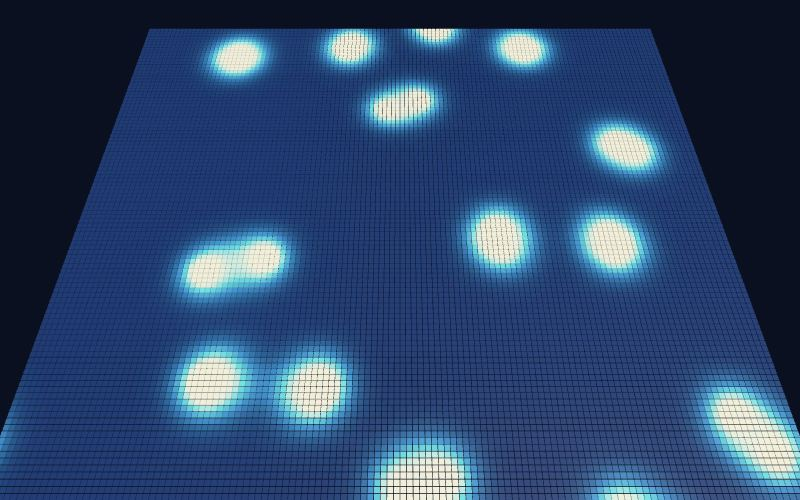
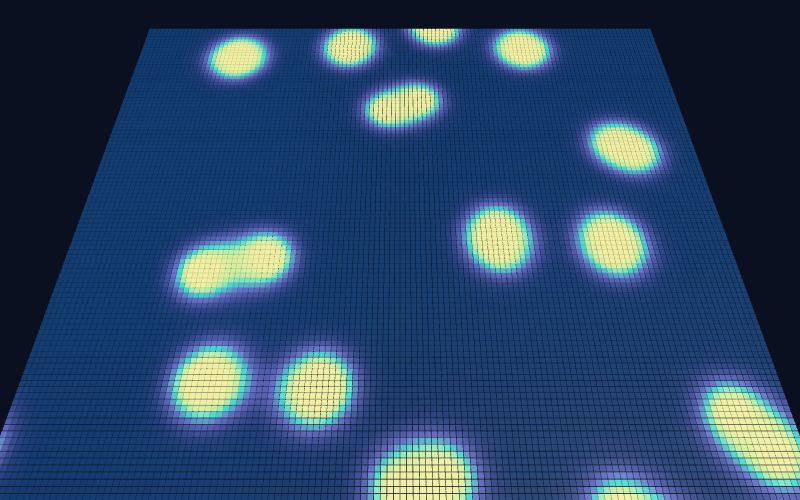
Hypercycle as five continuous chemicals (spiral waves); Gray-Scott preset buttons, palettes and spread knobs; controls can set several fields

diff --git a/examples/hypercycle/hypercycle.js b/examples/hypercycle/hypercycle.js
@@ -1,74 +1,60 @@
-// A hypercycle: molecules that each help the next one copy itself, in a ring (1 helps 2, 2 helps 3, ... 5 helps 1).
+// A hypercycle: chemicals that each help the next one copy itself, in a ring (1 helps 2, 2 helps 3, ... 5 helps 1).
 //
-// On their own, rivals crowd each other out. In a ring, every member needs the one before it, so none can win
-// without the rest: they all survive, and on a surface they chase each other around in spiral waves.
+// On their own, rivals crowd each other out. In a ring, every one needs the one before it, so none can win
+// without the rest: they all survive, and across a surface they chase each other around in spiral waves.
 // This is Eigen and Schuster's idea of how life's first molecules could have cooperated.
 //
-// Each cell is empty (0), one of the five members (1 to 5), or a parasite (6).
-//   - A member dies now and then.
-//   - An empty cell can be filled by a copy of a neighbor. A member copies faster when a neighbor of
-//     the species before it in the ring is nearby to help.
-//   - A parasite gets help from member 1 but helps nobody back. It breaks the ring... or does it?
-//     Raise the `parasites` slider and see whether the spirals hold up.
-const MEMBERS = 5
-const PARASITE = MEMBERS + 1
-const COLORS = ['#10151f', '#ff5a5f', '#ffb347', '#f4e25a', '#4fd1a5', '#5aa9ff', '#f2f2f2']
+// Every cell holds a concentration of each of the five chemicals, adding up to 1. Each step:
+//   - chemical i grows at a rate of  k + c * (how much of chemical i-1 is here)   [`base` and `help`]
+//   - what grew is taken from everyone in proportion, so the total stays 1        [the "dilution"]
+//   - every chemical spreads into its neighbors                                  [`spread`]
+// The picture mixes five colors by those concentrations; `contrast` sharpens it so the waves read clearly.
+const N = 5
+const NAMES = ['a', 'b', 'c', 'd', 'e']
+const HUES = ['#ff3b5c', '#ffb02e', '#5cf27a', '#27d6ff', '#a35cff'].map((h) => [1, 3, 5].map((i) => parseInt(h.slice(i, i + 2), 16) / 255))
 
 export default {
-  // random species in a share of the cells (`fill`), and a few parasites
+  // every cell starts as a random mixture
   initAll({ count }, p, ctx) {
-    const species = new Float32Array(count)
+    const x = NAMES.map(() => new Float32Array(count))
     for (let i = 0; i < count; i++) {
-      if (ctx.random() < p.fill) species[i] = 1 + Math.floor(ctx.random() * MEMBERS)
-      if (p.parasites > 0 && ctx.random() < 0.004 * p.parasites) species[i] = PARASITE
+      let sum = 0
+      for (let s = 0; s < N; s++) sum += x[s][i] = ctx.random() ** 2 + 0.001
+      for (let s = 0; s < N; s++) x[s][i] /= sum
     }
-    return { species }
+    return Object.fromEntries(NAMES.map((n, s) => [n, x[s]]))
   },
 
-  // empty cells are not drawn; the rest take their species' color
-  display({ self }, p, ctx) {
-    return { visible: self.species > 0, color: COLORS[self.species] }
+  // blend the five colors by concentration, sharpened by `contrast` so the strongest one dominates
+  displayAll(f, p) {
+    const n = f.a.length, d = NAMES.map((k) => f[k].data)
+    const out = { r: new Float32Array(n), g: new Float32Array(n), b: new Float32Array(n) }
+    for (let i = 0; i < n; i++) {
+      let sum = 0
+      const w = d.map((c) => { const v = Math.pow(c[i], p.contrast); sum += v; return v })
+      for (let s = 0; s < N; s++) {
+        const k = sum > 0 ? w[s] / sum : 0
+        out.r[i] += k * HUES[s][0]; out.g[i] += k * HUES[s][1]; out.b[i] += k * HUES[s][2]
+      }
+    }
+    return { color: out }
   },
 
-  act({ self, neighbors }, p, ctx) {
-    if (self.species !== 0) {
-      return ctx.random() < p.death ? { species: 0 } : {} // alive cells just die at random
+  actAll(f, p) {
+    let x = NAMES.map((k) => f[k])
+    for (let step = 0; step < p.speed; step++) {
+      // how fast each one copies itself, helped by the one before it in the ring
+      const rate = x.map((c, s) => x[(s + N - 1) % N].mul(p.help).add(p.base))
+      const growth = x.map((c, s) => c.mul(rate[s]))
+      const total = growth.reduce((a, g) => a.add(g))
+      x = x.map((c, s) => {
+        const reacted = c.add(growth[s].sub(c.mul(total)).mul(p.dt))
+        return reacted.add(reacted.neighborAverage().sub(reacted).mul(p.spread)).clamp(0, 1)
+      })
     }
-
-    // an empty cell: count the species around it
-    const around = new Array(PARASITE + 1).fill(0)
-    for (const s of neighbors.species) around[s]++
-
-    // how strongly each species wants to fill this cell: more neighbors of it, and more help from the one before it
-    const want = new Array(PARASITE + 1).fill(0)
-    let total = 0
-    for (let s = 1; s <= MEMBERS; s++) {
-      const before = s === 1 ? MEMBERS : s - 1
-      want[s] = around[s] * (p.base + p.help * around[before])
-      total += want[s]
-    }
-    want[PARASITE] = p.parasites * around[PARASITE] * (p.base + p.help * around[1]) // helped by member 1, helps nobody
-    total += want[PARASITE]
-
-    if (total === 0 || ctx.random() > total / (1 + total)) return {}
-    // choose who fills it, in proportion to how much each wanted to
-    let pick = ctx.random() * total
-    for (let s = 1; s <= PARASITE; s++) {
-      pick -= want[s]
-      if (pick <= 0) return { species: s }
-    }
-    return {}
+    return Object.fromEntries(NAMES.map((n, s) => [n, x[s]]))
   },
 }
 
-const count = (cells, s) => cells.species.filter((x) => x === s).length
-
-export const metrics = {
-  // how many cells each member holds: in a healthy hypercycle all five stay alive
-  member1: ({ cells }) => count(cells, 1),
-  member2: ({ cells }) => count(cells, 2),
-  member3: ({ cells }) => count(cells, 3),
-  member4: ({ cells }) => count(cells, 4),
-  member5: ({ cells }) => count(cells, 5),
-  parasites: ({ cells }) => count(cells, PARASITE),
-}
+// how much of the sheet each chemical holds on average: in a healthy hypercycle all five stay alive
+export const metrics = Object.fromEntries(NAMES.map((n, s) => [`chemical${s + 1}`, ({ cells }) => cells[n].average()]))

diff --git a/packages/workbench/src/panel.ts b/packages/workbench/src/panel.ts
@@ -79,50 +79,54 @@ export class ParamsPanel {
   }
 }
 
-interface ControlView { label?: string; set: string; options: (string | number | boolean)[] }
+type Pick = Record<string, string | number | boolean>
+interface ControlView { label?: string; set?: string; options?: (string | number | boolean)[]; presets?: { label: string; values: Pick }[] }
 
-/** Rows of buttons from the scene's `controls`: one button per option, the current one pressed. */
+/** Rows of buttons from the scene's `controls`: one button per option or preset, the ones that match the scene pressed. */
 export class ControlsPanel {
   private signature = ''
-  private rows = new Map<string, HTMLButtonElement[]>()
+  private rows: { buttons: HTMLButtonElement[]; picks: Pick[] }[] = []
 
-  constructor(private root: HTMLElement, private onPick: (path: string, value: string | number | boolean) => void) {}
+  constructor(private root: HTMLElement, private onPick: (values: Pick) => void) {}
 
   render(controls: unknown, current: (path: string) => unknown): void {
-    const list = Array.isArray(controls) ? (controls as ControlView[]).filter((c) => c && typeof c.set === 'string' && Array.isArray(c.options)) : []
+    const list = Array.isArray(controls) ? (controls as ControlView[]).filter((c) => c && (c.presets || (typeof c.set === 'string' && Array.isArray(c.options)))) : []
     const sig = JSON.stringify(list)
     if (sig !== this.signature) {
       this.signature = sig
-      this.rows.clear()
+      this.rows = []
       this.root.replaceChildren()
       for (const c of list) {
         const wrap = document.createElement('div')
         wrap.className = 'control'
         const label = document.createElement('label')
-        label.textContent = c.label ?? c.set.split('.').pop() ?? c.set
+        label.textContent = c.label ?? c.set?.split('.').pop() ?? ''
         const group = document.createElement('div')
         group.className = 'choices'
         group.setAttribute('role', 'group')
         group.setAttribute('aria-label', label.textContent)
-        const buttons = c.options.map((o) => {
+        const items = c.presets ? c.presets.map((q) => ({ text: q.label, pick: q.values })) : (c.options ?? []).map((o) => ({ text: String(o), pick: { [c.set as string]: o } as Pick }))
+        const buttons = items.map((it) => {
           const b = document.createElement('button')
           b.type = 'button'
-          b.textContent = String(o)
-          b.addEventListener('click', () => this.onPick(c.set, o))
+          b.textContent = it.text
+          b.addEventListener('click', () => this.onPick(it.pick))
           group.appendChild(b)
           return b
         })
-        this.rows.set(c.set, buttons)
+        this.rows.push({ buttons, picks: items.map((it) => it.pick) })
         wrap.append(label, group)
         this.root.appendChild(wrap)
       }
     }
-    for (const c of list) {
-      const now = current(c.set)
-      this.rows.get(c.set)?.forEach((b, i) => b.setAttribute('aria-pressed', String(c.options[i] === now)))
+    for (const row of this.rows) {
+      row.buttons.forEach((b, i) => b.setAttribute('aria-pressed', String(Object.entries(row.picks[i]).every(([path, v]) => close(current(path), v)))))
     }
   }
 }
+
+// a number a slider rounded is still "the same" as the preset that set it
+const close = (a: unknown, b: unknown): boolean => (typeof a === 'number' && typeof b === 'number' ? Math.abs(a - b) < 1e-9 : a === b)
 
 const LINE_COLORS =['#5aa9ff', '#ff6b6b', '#7bd88f', '#ffd24d', '#c792ea', '#ffa657']
 

diff --git a/packages/core/test/patterns.test.ts b/packages/core/test/patterns.test.ts
@@ -30,20 +30,36 @@ test('gray-scott: a pattern grows from a few blobs, both chemicals stay between 
   assert.ok(dying.metrics().chemicalV < a.metrics().chemicalV, 'a bad feed and kill gives less pattern')
 })
 
-test('hypercycle: all five members coexist when they help each other, and parasites take over', async () => {
-  const { scene, script } = await load('hypercycle', 'hypercycle.js')
-  const run = async (params: Record<string, number>, ticks: number) => {
-    const s = new Sim(withParams(scene, params), script)
-    for (let t = 0; t < ticks; t++) s.step()
-    assert.equal(s.takeErrors().length, 0)
-    return { s, m: s.metrics() }
+test('gray-scott: every preset button and palette names real fields and a real palette', async () => {
+  const { scene } = await load('gray-scott', 'gray-scott.js')
+  const doc = scene as unknown as Record<string, unknown>
+  const at = (path: string) => path.split('.').reduce<unknown>((n, k) => (n as Record<string, unknown> | undefined)?.[k], doc)
+  for (const c of scene.controls ?? []) {
+    for (const pr of c.presets ?? []) for (const path of Object.keys(pr.values)) assert.notEqual(at(path), undefined, `${pr.label}: ${path}`)
+    if (c.set) assert.notEqual(at(c.set), undefined, c.set)
   }
-  const healthy = await run({}, 400)
-  for (const k of ['member1', 'member2', 'member3', 'member4', 'member5'] as const) assert.ok(healthy.m[k] > 300, `${k} holds ${healthy.m[k]} cells`)
-  assert.equal(healthy.m.parasites, 0)
-  const again = await run({}, 400)
-  assert.equal(again.s.hash(), healthy.s.hash(), 'repeatable')
-  const infected = await run({ parasites: 1.5 }, 500)
-  const members = infected.m.member1 + infected.m.member2 + infected.m.member3 + infected.m.member4 + infected.m.member5
-  assert.ok(infected.m.parasites > members, `parasites (${infected.m.parasites}) outnumber the ring (${members})`)
+})
+
+test('hypercycle: all five chemicals coexist as waves, the total stays 1 in every cell, and the run is repeatable', async () => {
+  const { scene, script } = await load('hypercycle', 'hypercycle.js')
+  const run = (ticks: number) => {
+    const s = new Sim(scene, script)
+    for (let t = 0; t < ticks; t++) s.step()
+    assert.equal(s.takeErrors().length, 0, s.takeErrors().join('\n'))
+    return s
+  }
+  const a = run(300)
+  assert.equal(a.hash(), run(300).hash(), 'repeatable')
+  const x = ['a', 'b', 'c', 'd', 'e'].map((k) => a.table.cols[k] as unknown as Float32Array)
+  const n = x[0].length
+  const wins = [0, 0, 0, 0, 0]
+  let worst = 0
+  for (let i = 0; i < n; i++) {
+    let sum = 0, best = 0
+    for (let k = 0; k < 5; k++) { sum += x[k][i]; if (x[k][i] > x[best][i]) best = k }
+    wins[best]++
+    worst = Math.max(worst, Math.abs(sum - 1))
+  }
+  assert.ok(worst < 0.02, `the chemicals in a cell add up to 1 (off by ${worst})`)
+  for (let k = 0; k < 5; k++) assert.ok(wins[k] > n * 0.05, `chemical ${k + 1} leads in ${wins[k]} of ${n} cells`)
 })

diff --git a/examples/gray-scott/gray-scott.js b/examples/gray-scott/gray-scott.js
@@ -2,17 +2,23 @@
 //
 // Two chemicals share a sheet. `u` is food that is fed in everywhere; `v` eats it, makes more of itself,
 // and is slowly removed. Both spread out, `u` faster than `v`. Where `v` gets a foothold it grows into
-// spots that split, stripes that wander, or labyrinths, depending on just two numbers:
+// spots that split, stripes that wander, or labyrinths, depending mostly on two numbers:
 //
 //   feed  how fast food is added          kill  how fast v is removed
 //
-// Try these (feed, kill):  spots that divide 0.037, 0.065 · stripes 0.078, 0.061 · coral 0.055, 0.062
-//                          waves 0.026, 0.051 · holes 0.039, 0.058 · solitons 0.030, 0.060
+// The preset buttons set (feed, kill) for the classic patterns. Then try the sliders: the spread rates
+// change how fine the pattern is, and the palette buttons change how it is colored.
 //
 // The whole sheet is updated at once with field arithmetic: `u.neighborAverage().sub(u)` is how much
 // each cell differs from its neighbors, which is all that "spreading out" needs.
-const DU = 1.0
-const DV = 0.5
+const PALETTES = {
+  ocean: ['#0b1230', '#17509c', '#2fb8bd', '#f6efc4'],
+  fire: ['#10040a', '#7a1250', '#e8452e', '#ffd25a', '#fff6d8'],
+  aurora: ['#07102b', '#2a2f8f', '#16b6a0', '#9be564', '#f4f06a'],
+  rainbow: ['#1b0b3a', '#3a3cc8', '#18c4c4', '#7be45a', '#ffd23f', '#ff5a5f'],
+  candy: ['#2b1055', '#c13fa8', '#ff7ab6', '#ffd1a8', '#fffbe8'],
+  mono: ['#0a0a0c', '#4a4f5c', '#aab0bd', '#ffffff'],
+}
 
 export default {
   // food everywhere, and a few random blobs of v to start things off
@@ -34,9 +40,10 @@ export default {
     return { u, v }
   },
 
-  // every cell is drawn, colored by how much v is there: deep blue, through teal, to cream
+  // every cell is drawn, colored along the chosen palette by how much v is there
   displayAll({ v }, p, ctx) {
-    return { visible: v.ge(-1), color: ctx.colors.rampField(['#0b1230', '#17509c', '#2fb8bd', '#f6efc4'], v.mul(3)) }
+    const stops = PALETTES[ctx.data?.palette] ?? PALETTES.ocean
+    return { visible: v.ge(-1), color: ctx.colors.rampField(stops, v.mul(p.brightness)) }
   },
 
   actAll({ u, v }, p) {
@@ -45,8 +52,8 @@ export default {
       const spreadU = u.neighborAverage().sub(u)
       const spreadV = v.neighborAverage().sub(v)
       const react = u.mul(v).mul(v) // u is eaten by v, and turned into more v
-      const nextU = u.add(spreadU.mul(DU)).sub(react).add(u.mul(-p.feed).add(p.feed))
-      const nextV = v.add(spreadV.mul(DV)).add(react).sub(v.mul(p.feed + p.kill))
+      const nextU = u.add(spreadU.mul(p.spreadU)).sub(react).add(u.mul(-p.feed).add(p.feed))
+      const nextV = v.add(spreadV.mul(p.spreadV)).add(react).sub(v.mul(p.feed + p.kill))
       u = nextU.clamp(0, 1)
       v = nextV.clamp(0, 1)
     }

diff --git a/packages/core/src/scene.ts b/packages/core/src/scene.ts
@@ -263,11 +263,21 @@ export interface Scene {
   controls?: ControlDef[]
 }
 
+export type ControlValue = string | number | boolean
+
+/** One button that sets several fields at once: `{ "label": "stripes", "values": { "params.feed.value": 0.078, "params.kill.value": 0.061 } }`. */
+export interface Preset {
+  label: string
+  values: Record<string, ControlValue>
+}
+
+/** Either `set` and `options` (a row of choices for one field) or `presets` (each button sets several fields). */
 export interface ControlDef {
   label?: string
   /** Dotted path to the field, with array positions as numbers. */
-  set: string
-  options: (string | number | boolean)[]
+  set?: string
+  options?: ControlValue[]
+  presets?: Preset[]
 }
 
 export type Params = Record<string, number>
@@ -554,13 +564,26 @@ export const sceneSchema = {
       type: 'array',
       items: {
         type: 'object',
-        required: ['set', 'options'],
         additionalProperties: false,
         properties: {
           label: { type: 'string' },
           set: { type: 'string', pattern: '^[^.\\s]+(\\.[^.\\s]+)*$' },
           options: { type: 'array', items: { type: ['string', 'number', 'boolean'] }, minItems: 2 },
+          presets: {
+            type: 'array',
+            minItems: 2,
+            items: {
+              type: 'object',
+              required: ['label', 'values'],
+              additionalProperties: false,
+              properties: {
+                label: { type: 'string' },
+                values: { type: 'object', minProperties: 1, additionalProperties: { type: ['string', 'number', 'boolean'] } },
+              },
+            },
+          },
         },
+        oneOf: [{ required: ['set', 'options'], not: { required: ['presets'] } }, { required: ['presets'], not: { anyOf: [{ required: ['set'] }, { required: ['options'] }] } }],
       },
     },
     charts: { type: 'array', items: { type: 'object', required: ['metrics'], additionalProperties: false, properties: { title: { type: 'string' }, metrics: { type: 'array', items: { type: 'string' }, minItems: 1 } } } },

diff --git a/packages/workbench/src/editors.ts b/packages/workbench/src/editors.ts
@@ -44,6 +44,8 @@ export function makeEditor(parent: HTMLElement, doc: string, lang: 'json' | 'js'
  * `"key": "old"` is swapped in place so the file keeps its formatting; anything else rewrites the file.
  */
 export function setPathInText(text: string, path: string, value: string | number | boolean): string | null {
+  const param = /^params\.([^.]+)(?:\.value)?$/.exec(path)
+  if (param && typeof value === 'number') { const done = setParamInText(text, param[1], value); if (done !== null) return done }
   let doc: Record<string, unknown>
   try { doc = JSON.parse(text) } catch { return null }
   const keys = path.split('.')
@@ -72,6 +74,8 @@ export function getPath(doc: unknown, path: string): unknown {
     if (!node || typeof node !== 'object') return undefined
     node = (node as Record<string, unknown>)[k]
   }
+  // a param may be written as a bare number or as { value }
+  if (node === undefined && /^params\.[^.]+\.value$/.test(path)) return getPath(doc, path.slice(0, -'.value'.length))
   return node
 }
 

diff --git a/packages/core/test/layout.test.ts b/packages/core/test/layout.test.ts
@@ -45,8 +45,8 @@ test('layouts: the example runs, and its controls point at real fields', async (
   const script = (await import(pathToFileURL(new URL('layouts.js', dir).pathname).href)) as ScriptModule
   for (const c of parsed.scene.controls ?? []) {
     let node: unknown = parsed.scene
-    for (const k of c.set.split('.')) node = (node as Record<string, unknown>)?.[k]
-    assert.ok(c.options.includes(node as string), `${c.set} starts at one of its options`)
+    for (const k of (c.set ?? '').split('.')) node = (node as Record<string, unknown>)?.[k]
+    assert.ok((c.options ?? []).includes(node as string), `${c.set} starts at one of its options`)
   }
   const sim = new Sim(parsed.scene, script)
   for (let t = 0; t < 3; t++) sim.step()

diff --git a/packages/workbench/src/main.ts b/packages/workbench/src/main.ts
@@ -86,8 +86,9 @@ async function main(): Promise<void> {
     send({ type: 'scene', scene: next })
   })
 
-  const controls = new ControlsPanel($('controls'), (path, value) => {
-    const next = setPathInText(sceneEditor.getText(), path, value)
+  const controls = new ControlsPanel($('controls'), (values) => {
+    let next: string | null = sceneEditor.getText()
+    for (const [path, value] of Object.entries(values)) next = next === null ? null : setPathInText(next, path, value)
     if (next === null) return
     loading = true
     sceneEditor.setText(next)
